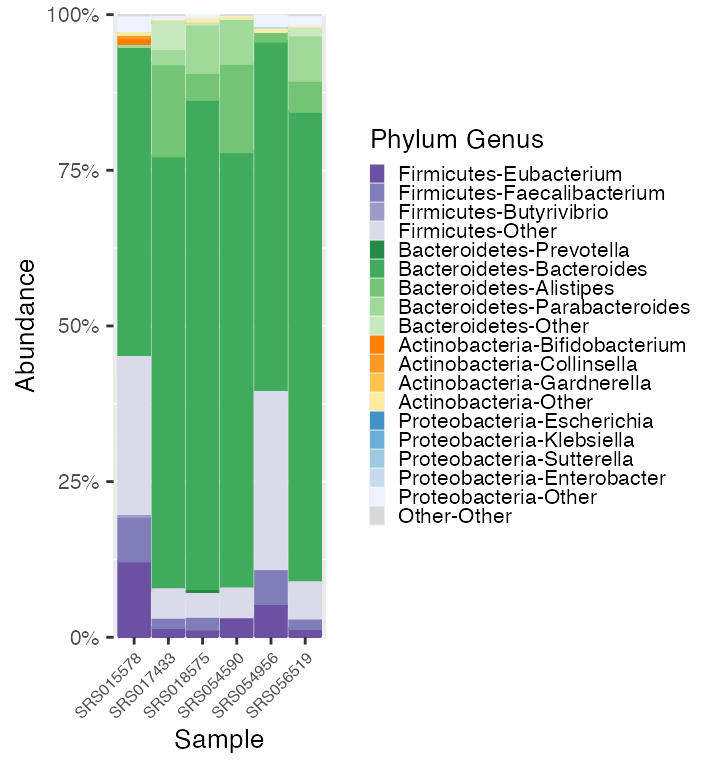
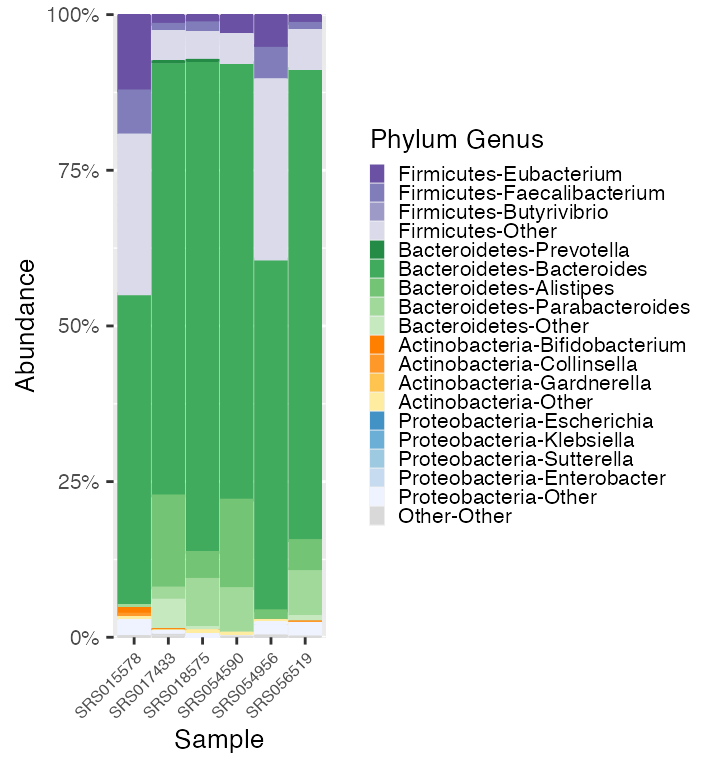
updated functions and added error handling to mdf_prep()

Changed region(s): [[0.1528, 0.0, 0.4583, 0.4062], [0.1528, 0.4375, 0.4583, 0.8438]]

diff --git a/docs/articles/microshades-CMD.html b/docs/articles/microshades-CMD.html
@@ -85,7 +85,7 @@
       <h1 data-toc-skip>microshades-CMD</h1>
                         <h4 class="author">Erin Dahl</h4>
             
-            <h4 class="date">February 19, 2021</h4>
+            <h4 class="date">February 22, 2021</h4>
       
       
       <div class="hidden name"><code>microshades-CMD.Rmd</code></div>
@@ -136,12 +136,13 @@
 <div id="apply-the-microshades-functions-to-the-britol-dataset-" class="section level2">
 <h2 class="hasAnchor">
 <a href="#apply-the-microshades-functions-to-the-britol-dataset-" class="anchor"></a>Apply the microshades functions to the Britol dataset.</h2>
+<p>To orient the shades from the top darkest to lightest instead of from the bottom darkest to lightest, use the <code>top_orientation = TRUE</code> parameter in the <code><a href="../reference/create_color_dfs.html">create_color_dfs()</a></code></p>
 <div class="sourceCode"><pre class="downlit sourceCode r">
 <code class="sourceCode R"><span class="co"># Use microshades function prep_mdf to agglomerate, normalize, and melt the phyloseq object</span>
 <span class="va">mdf_britol_pre</span> <span class="op">&lt;-</span> <span class="fu"><a href="../reference/prep_mdf.html">prep_mdf</a></span><span class="op">(</span><span class="va">ps_britol_sub</span><span class="op">)</span>
 
 <span class="co"># Create a color object for the specified data</span>
-<span class="va">color_objs_britol</span> <span class="op">&lt;-</span> <span class="fu"><a href="../reference/create_color_dfs.html">create_color_dfs</a></span><span class="op">(</span><span class="va">mdf_britol_pre</span><span class="op">)</span>
+<span class="va">color_objs_britol</span> <span class="op">&lt;-</span> <span class="fu"><a href="../reference/create_color_dfs.html">create_color_dfs</a></span><span class="op">(</span><span class="va">mdf_britol_pre</span>, top_orientation <span class="op">=</span> <span class="cn">TRUE</span><span class="op">)</span>
 
 <span class="co"># Extract</span>
 <span class="va">mdf_britol</span><span class="op">&lt;-</span> <span class="va">color_objs_britol</span><span class="op">$</span><span class="va">mdf</span>
@@ -157,7 +158,12 @@
 <span class="va">plot_britol</span> <span class="op">+</span> <span class="fu"><a href="https://ggplot2.tidyverse.org/reference/scale_continuous.html">scale_y_continuous</a></span><span class="op">(</span>labels <span class="op">=</span> <span class="fu">scales</span><span class="fu">::</span><span class="va"><a href="https://scales.r-lib.org//reference/label_percent.html">percent</a></span>, expand <span class="op">=</span> <span class="fu"><a href="https://ggplot2.tidyverse.org/reference/expansion.html">expansion</a></span><span class="op">(</span><span class="fl">0</span><span class="op">)</span><span class="op">)</span> <span class="op">+</span>
   <span class="fu"><a href="https://ggplot2.tidyverse.org/reference/theme.html">theme</a></span><span class="op">(</span>legend.key.size <span class="op">=</span> <span class="fu"><a href="https://rdrr.io/r/grid/unit.html">unit</a></span><span class="op">(</span><span class="fl">0.2</span>, <span class="st">"cm"</span><span class="op">)</span>, text<span class="op">=</span><span class="fu"><a href="https://ggplot2.tidyverse.org/reference/element.html">element_text</a></span><span class="op">(</span>size<span class="op">=</span><span class="fl">10</span><span class="op">)</span><span class="op">)</span> <span class="op">+</span>
   <span class="fu"><a href="https://ggplot2.tidyverse.org/reference/theme.html">theme</a></span><span class="op">(</span>axis.text.x <span class="op">=</span> <span class="fu"><a href="https://ggplot2.tidyverse.org/reference/element.html">element_text</a></span><span class="op">(</span>size<span class="op">=</span> <span class="fl">6</span><span class="op">)</span><span class="op">)</span> </code></pre></div>
-<p><img src="microshades-CMD_files/figure-html/unnamed-chunk-5-1.png" width="576"> ## Reassign colors as desired</p>
+<p><img src="microshades-CMD_files/figure-html/unnamed-chunk-5-1.png" width="576"></p>
+</div>
+</div>
+<div id="reassign-colors-as-desired" class="section level2">
+<h2 class="hasAnchor">
+<a href="#reassign-colors-as-desired" class="anchor"></a>Reassign colors as desired</h2>
 <p>To change the colors assignment, use the function <code>color_reassign</code> to specify the groups and colors in order of reassignment. For example, we can change the color assignment of Bacteroidetes to <code>micro_green</code> and the color assignment of Proteobacteria to <code>micro_blue</code></p>
 <div class="sourceCode"><pre class="downlit sourceCode r">
 <code class="sourceCode R"><span class="va">new_cdf_britol</span> <span class="op">&lt;-</span> <span class="fu"><a href="../reference/color_reassign.html">color_reassign</a></span><span class="op">(</span><span class="va">cdf_britol</span>, 
@@ -170,7 +176,6 @@
   <span class="fu"><a href="https://ggplot2.tidyverse.org/reference/theme.html">theme</a></span><span class="op">(</span>legend.key.size <span class="op">=</span> <span class="fu"><a href="https://rdrr.io/r/grid/unit.html">unit</a></span><span class="op">(</span><span class="fl">0.2</span>, <span class="st">"cm"</span><span class="op">)</span>, text<span class="op">=</span><span class="fu"><a href="https://ggplot2.tidyverse.org/reference/element.html">element_text</a></span><span class="op">(</span>size<span class="op">=</span><span class="fl">10</span><span class="op">)</span><span class="op">)</span> <span class="op">+</span>
   <span class="fu"><a href="https://ggplot2.tidyverse.org/reference/theme.html">theme</a></span><span class="op">(</span>axis.text.x <span class="op">=</span> <span class="fu"><a href="https://ggplot2.tidyverse.org/reference/element.html">element_text</a></span><span class="op">(</span>size<span class="op">=</span> <span class="fl">6</span><span class="op">)</span><span class="op">)</span> </code></pre></div>
 <p><img src="microshades-CMD_files/figure-html/unnamed-chunk-6-1.png" width="700"></p>
-</div>
 </div>
 <div id="apply-the-microshades-functions-to-the-hmp-dataset-" class="section level2">
 <h2 class="hasAnchor">

diff --git a/docs/reference/index.html b/docs/reference/index.html
@@ -137,8 +137,8 @@
     <tbody>
       <tr>
         <th colspan="2">
-          <h2 id="section-all-functions" class="hasAnchor"><a href="#section-all-functions" class="anchor"></a>All functions</h2>
-          <p class="section-desc"></p>
+          <h2 id="section-microshades-palettes" class="hasAnchor"><a href="#section-microshades-palettes" class="anchor"></a>microshades palettes</h2>
+          <p class="section-desc"><p>Access the microshades color palettes</p></p>
         </th>
       </tr>
       
@@ -149,41 +149,9 @@
       <tr>
         
         <td>
-          <p><code><a href="color_reassign.html">color_reassign()</a></code> </p>
+          <p><code><a href="microshades_palettes.html">microshades_palettes</a></code> </p>
         </td>
-        <td><p>Reassign the microshades colors to different groups</p></td>
-      </tr><tr>
-        
-        <td>
-          <p><code><a href="create_color_dfs.html">create_color_dfs()</a></code> </p>
-        </td>
-        <td><p>Generate melted data frame and color palette data frame</p></td>
-      </tr><tr>
-        
-        <td>
-          <p><code><a href="custom_legend.html">custom_legend()</a></code> </p>
-        </td>
-        <td><p>This function creates a custom legend that sections the group taxonomy as headers
-and lists the subgroup taxonomies below each group header, for all the groups.</p></td>
-      </tr><tr>
-        
-        <td>
-          <p><code><a href="default_hex.html">default_hex()</a></code> </p>
-        </td>
-        <td><p>Return default hex colors</p></td>
-      </tr><tr>
-        
-        <td>
-          <p><code><a href="individual_legend.html">individual_legend()</a></code> </p>
-        </td>
-        <td><p>This function creates a custom legend for an individual group taxonomy with the
-subgroup taxonomy below</p></td>
-      </tr><tr>
-        
-        <td>
-          <p><code><a href="match_cdf.html">match_cdf()</a></code> </p>
-        </td>
-        <td><p>Apply the color factoring from one color df to a different melted phyloseq object.</p></td>
+        <td><p>List of palettes</p></td>
       </tr><tr>
         
         <td>
@@ -199,9 +167,34 @@ subgroup taxonomy below</p></td>
       </tr><tr>
         
         <td>
-          <p><code><a href="microshades_palettes.html">microshades_palettes</a></code> </p>
+          <p><code><a href="default_hex.html">default_hex()</a></code> </p>
         </td>
-        <td><p>List of palettes</p></td>
+        <td><p>Return default hex colors</p></td>
+      </tr>
+    </tbody><tbody>
+      <tr>
+        <th colspan="2">
+          <h2 id="section-apply-microshades-to-phyloseq-objects" class="hasAnchor"><a href="#section-apply-microshades-to-phyloseq-objects" class="anchor"></a>Apply microshades to phyloseq objects</h2>
+          <p class="section-desc"><p>Functions for using microshades advanced color organization on phyloseq objects.</p></p>
+        </th>
+      </tr>
+      
+      
+    </tbody><tbody>
+      
+      
+      <tr>
+        
+        <td>
+          <p><code><a href="prep_mdf.html">prep_mdf()</a></code> </p>
+        </td>
+        <td><p>Prepare melted phyloseq object to map colors to</p></td>
+      </tr><tr>
+        
+        <td>
+          <p><code><a href="create_color_dfs.html">create_color_dfs()</a></code> </p>
+        </td>
+        <td><p>Generate melted data frame and color palette data frame</p></td>
       </tr><tr>
         
         <td>
@@ -211,16 +204,36 @@ subgroup taxonomy below</p></td>
       </tr><tr>
         
         <td>
-          <p><code><a href="prep_mdf.html">prep_mdf()</a></code> </p>
-        </td>
-        <td><p>Prepare melted phyloseq object to map colors to</p></td>
-      </tr><tr>
-        
-        <td>
           <p><code><a href="reorder_samples_by.html">reorder_samples_by()</a></code> </p>
         </td>
         <td><p>Reorder the samples by abundance of user selected subgroup taxa and/or
 reorder the groups levels based on abundance with the sink_abundant_groups flag</p></td>
+      </tr><tr>
+        
+        <td>
+          <p><code><a href="match_cdf.html">match_cdf()</a></code> </p>
+        </td>
+        <td><p>Apply the color factoring from one color df to a different melted phyloseq object.</p></td>
+      </tr><tr>
+        
+        <td>
+          <p><code><a href="color_reassign.html">color_reassign()</a></code> </p>
+        </td>
+        <td><p>Reassign the microshades colors to different groups</p></td>
+      </tr><tr>
+        
+        <td>
+          <p><code><a href="custom_legend.html">custom_legend()</a></code> </p>
+        </td>
+        <td><p>This function creates a custom legend that sections the group taxonomy as headers
+and lists the subgroup taxonomies below each group header, for all the groups.</p></td>
+      </tr><tr>
+        
+        <td>
+          <p><code><a href="individual_legend.html">individual_legend()</a></code> </p>
+        </td>
+        <td><p>This function creates a custom legend for an individual group taxonomy with the
+subgroup taxonomy below</p></td>
       </tr>
     </tbody>
     </table>

diff --git a/docs/articles/microshades-GP.html b/docs/articles/microshades-GP.html
@@ -85,7 +85,7 @@
       <h1 data-toc-skip>microshades-GP</h1>
                         <h4 class="author">Erin Dahl</h4>
             
-            <h4 class="date">February 19, 2021</h4>
+            <h4 class="date">February 22, 2021</h4>
       
       
       <div class="hidden name"><code>microshades-GP.Rmd</code></div>
@@ -107,17 +107,8 @@
 <code class="sourceCode R"><span class="kw"><a href="https://rdrr.io/r/base/library.html">library</a></span><span class="op">(</span><span class="va">microshades</span><span class="op">)</span>
 <span class="kw"><a href="https://rdrr.io/r/base/library.html">library</a></span><span class="op">(</span><span class="va"><a href="http://dx.plos.org/10.1371/journal.pone.0061217">phyloseq</a></span><span class="op">)</span>
 <span class="kw"><a href="https://rdrr.io/r/base/library.html">library</a></span><span class="op">(</span><span class="va"><a href="http://ggplot2.tidyverse.org">ggplot2</a></span><span class="op">)</span>
-<span class="kw"><a href="https://rdrr.io/r/base/library.html">library</a></span><span class="op">(</span><span class="va"><a href="https://dplyr.tidyverse.org">dplyr</a></span><span class="op">)</span></code></pre></div>
-<pre><code>## 
-## Attaching package: 'dplyr'</code></pre>
-<pre><code>## The following objects are masked from 'package:stats':
-## 
-##     filter, lag</code></pre>
-<pre><code>## The following objects are masked from 'package:base':
-## 
-##     intersect, setdiff, setequal, union</code></pre>
-<div class="sourceCode"><pre class="downlit sourceCode r">
-<code class="sourceCode R"><span class="kw"><a href="https://rdrr.io/r/base/library.html">library</a></span><span class="op">(</span><span class="va"><a href="https://wilkelab.org/cowplot/">cowplot</a></span><span class="op">)</span></code></pre></div>
+<span class="kw"><a href="https://rdrr.io/r/base/library.html">library</a></span><span class="op">(</span><span class="va"><a href="https://dplyr.tidyverse.org">dplyr</a></span><span class="op">)</span>
+<span class="kw"><a href="https://rdrr.io/r/base/library.html">library</a></span><span class="op">(</span><span class="va"><a href="https://wilkelab.org/cowplot/">cowplot</a></span><span class="op">)</span></code></pre></div>
 </div>
 <div id="use-the-microshades-functions" class="section level2">
 <h2 class="hasAnchor">

diff --git a/docs/articles/microshades-HMP.html b/docs/articles/microshades-HMP.html
@@ -85,7 +85,7 @@
       <h1 data-toc-skip>microshades-HMP</h1>
                         <h4 class="author">Erin Dahl</h4>
             
-            <h4 class="date">February 19, 2021</h4>
+            <h4 class="date">February 22, 2021</h4>
       
       
       <div class="hidden name"><code>microshades-HMP.Rmd</code></div>
@@ -134,10 +134,10 @@
 <span class="va">mdf_prep</span> <span class="op">&lt;-</span> <span class="fu"><a href="../reference/prep_mdf.html">prep_mdf</a></span><span class="op">(</span><span class="va">ps_v1v3_stool</span>, subgroup_level <span class="op">=</span> <span class="st">"FAMILY"</span><span class="op">)</span>
 
 <span class="co"># Create a color object for the specified data</span>
-<span class="va">color_obj_v1v3_stool</span> <span class="op">&lt;-</span> <span class="fu"><a href="../reference/create_color_dfs.html">create_color_dfs</a></span><span class="op">(</span><span class="va">mdf_prep</span>, group_level <span class="op">=</span> <span class="st">"PHYLUM"</span>, subgroup_level <span class="op">=</span> <span class="st">"FAMILY"</span>, cvd <span class="op">=</span> <span class="cn">TRUE</span><span class="op">)</span></code></pre></div>
-<pre><code>## Warning: Unknown or uninitialised column: `Top_Genus`.</code></pre>
-<div class="sourceCode"><pre class="downlit sourceCode r">
-<code class="sourceCode R"><span class="co"># Extract</span>
+<span class="va">color_obj_v1v3_stool</span> <span class="op">&lt;-</span> <span class="fu"><a href="../reference/create_color_dfs.html">create_color_dfs</a></span><span class="op">(</span><span class="va">mdf_prep</span>, group_level <span class="op">=</span> <span class="st">"PHYLUM"</span>, subgroup_level <span class="op">=</span> <span class="st">"FAMILY"</span>, cvd <span class="op">=</span> <span class="cn">TRUE</span><span class="op">)</span>
+
+
+<span class="co"># Extract</span>
 <span class="va">mdf_v1v3_stool</span> <span class="op">&lt;-</span> <span class="va">color_obj_v1v3_stool</span><span class="op">$</span><span class="va">mdf</span>
 <span class="va">cdf_v1v3_stool</span> <span class="op">&lt;-</span> <span class="va">color_obj_v1v3_stool</span><span class="op">$</span><span class="va">cdf</span></code></pre></div>
 </div>

diff --git a/docs/reference/prep_mdf.html b/docs/reference/prep_mdf.html
@@ -166,10 +166,10 @@ and genera.</p>
 </div><div class='output co'>#&gt; <span class='error'>Error: 'data' is not an exported object from 'namespace:phyloseq'</span></div><div class='input'>
 <span class='co'># Use defaults</span>
 <span class='va'>mdf</span> <span class='op'>&lt;-</span> <span class='fu'>prep_mdf</span><span class='op'>(</span><span class='va'>GlobalPatterns</span><span class='op'>)</span>
-</div><div class='output co'>#&gt; <span class='error'>Error in h(simpleError(msg, call)): error in evaluating the argument 'physeq' in selecting a method for function 'taxa_are_rows': object 'GlobalPatterns' not found</span></div><div class='input'>
+</div><div class='output co'>#&gt; <span class='error'>Error in is.data.frame(x): object 'GlobalPatterns' not found</span></div><div class='input'>
 <span class='co'># Subgroup as "Family"</span>
 <span class='va'>mdf_fam</span> <span class='op'>&lt;-</span> <span class='fu'>prep_mdf</span><span class='op'>(</span><span class='va'>GlobalPatterns</span>, subgroup_level <span class='op'>=</span> <span class='st'>"Family"</span><span class='op'>)</span>
-</div><div class='output co'>#&gt; <span class='error'>Error in h(simpleError(msg, call)): error in evaluating the argument 'physeq' in selecting a method for function 'taxa_are_rows': object 'GlobalPatterns' not found</span></div></pre>
+</div><div class='output co'>#&gt; <span class='error'>Error in is.data.frame(x): object 'GlobalPatterns' not found</span></div></pre>
   </div>
   <div class="col-md-3 hidden-xs hidden-sm" id="pkgdown-sidebar">
     <nav id="toc" data-toggle="toc" class="sticky-top">

diff --git a/docs/reference/match_cdf.html b/docs/reference/match_cdf.html
@@ -133,14 +133,7 @@
     <p>Now both melted dataframes will contain the same color mapping information</p>
     </div>
 
-    <pre class="usage"><span class='fu'>match_cdf</span><span class='op'>(</span>
-  <span class='va'>mdf</span>,
-  <span class='va'>mdf_group</span>,
-  selected_groups <span class='op'>=</span> <span class='fu'><a href='https://rdrr.io/r/base/c.html'>c</a></span><span class='op'>(</span><span class='st'>"Proteobacteria"</span>, <span class='st'>"Actinobacteria"</span>, <span class='st'>"Bacteroidetes"</span>,
-    <span class='st'>"Firmicutes"</span><span class='op'>)</span>,
-  group_level <span class='op'>=</span> <span class='st'>"Phylum"</span>,
-  subgroup_level <span class='op'>=</span> <span class='st'>"Genus"</span>
-<span class='op'>)</span></pre>
+    <pre class="usage"><span class='fu'>match_cdf</span><span class='op'>(</span><span class='va'>mdf</span>, <span class='va'>mdf_group</span>, group_level <span class='op'>=</span> <span class='st'>"Phylum"</span>, subgroup_level <span class='op'>=</span> <span class='st'>"Genus"</span><span class='op'>)</span></pre>
 
     <h2 class="hasAnchor" id="arguments"><a class="anchor" href="#arguments"></a>Arguments</h2>
     <table class="ref-arguments">
@@ -152,11 +145,6 @@
     <tr>
       <th>mdf_group</th>
       <td><p>data.frame, melted data frame to use legend from</p></td>
-    </tr>
-    <tr>
-      <th>selected_groups</th>
-      <td><p>list. "Other" is always on the top of the stack,
-but then the rest will follow, with Firmicutes as the base of the stack</p></td>
     </tr>
     <tr>
       <th>group_level</th>

diff --git a/docs/index.html b/docs/index.html
@@ -123,13 +123,7 @@
 <div id="phyloseq-useage" class="section level2">
 <h2 class="hasAnchor">
 <a href="#phyloseq-useage" class="anchor"></a>Phyloseq useage</h2>
-<p>For detailed tutorials on how to use microshades function with phyloseq objects, please reference the following vignettes.</p>
-<ul>
-<li><a href="https://KarstensLab.github.io/Microshades/articles/microshades-GP.html">Global Patterns</a></li>
-<li><a href="https://KarstensLab.github.io/Microshades/articles/microshades-HMP.html">Human Microbiome Project</a></li>
-<li><a href="https://KarstensLab.github.io/Microshades/articles/microshades-HMP2.html">Human Microbiome Project 2</a></li>
-<li><a href="https://KarstensLab.github.io/Microshades/articles/microshades-CMD.html">Curated Metagenomic Data</a></li>
-</ul>
+<p>For detailed tutorials on how to use microshades function with phyloseq objects, please reference vignette articles on the <a href="https://KarstensLab.github.io/microshades">website</a>.</p>
 <p>Here is an example of the plot generated with microshades on Curated Metagenomic Data of the Human Microbiome.</p>
 <p><img src="reference/figures/plot_CMD.png" width="100%" style="display: block; margin: auto;"></p>
 <p>microshades uses coloring to correspond with taxonomic group and subgroup levels. In this example, the phylum and genus information are explored. Darker shades indicate the most abundant genera for each phylum, and lighter shades are less abundant. Users can additionally reorder the samples based on a specified taxonomic rank and name, in this example by genus “Eubacterium” abundance.</p>

diff --git a/docs/reference/create_color_dfs.html b/docs/reference/create_color_dfs.html
@@ -144,7 +144,8 @@ top group, the categories not in <code>selected_groups</code> will be changed to
   top_n_subgroups <span class='op'>=</span> <span class='fl'>4</span>,
   group_level <span class='op'>=</span> <span class='st'>"Phylum"</span>,
   subgroup_level <span class='op'>=</span> <span class='st'>"Genus"</span>,
-  cvd <span class='op'>=</span> <span class='cn'>FALSE</span>
+  cvd <span class='op'>=</span> <span class='cn'>FALSE</span>,
+  top_orientation <span class='op'>=</span> <span class='cn'>FALSE</span>
 <span class='op'>)</span></pre>
 
     <h2 class="hasAnchor" id="arguments"><a class="anchor" href="#arguments"></a>Arguments</h2>
@@ -177,6 +178,11 @@ the max is 4 top subgroups</p></td>
     <tr>
       <th>cvd</th>
       <td><p>logical stands for Color Vision Deficent Friendly palette</p></td>
+    </tr>
+    <tr>
+      <th>top_orientation</th>
+      <td><p>logical most abundant shades oriented at the top of the stack
+otherwise, most abundant shades are bottom oriented</p></td>
     </tr>
     </table>
 

diff --git a/docs/articles/microshades-HMP2.html b/docs/articles/microshades-HMP2.html
@@ -85,7 +85,7 @@
       <h1 data-toc-skip>microshades-HMP2</h1>
                         <h4 class="author">Erin Dahl</h4>
             
-            <h4 class="date">February 19, 2021</h4>
+            <h4 class="date">February 22, 2021</h4>
       
       
       <div class="hidden name"><code>microshades-HMP2.Rmd</code></div>

diff --git a/README.md b/README.md
@@ -52,12 +52,7 @@ microshades_palette("micro_cvd_blue")
 
 ## Phyloseq useage
 
-For detailed tutorials on how to use microshades function with phyloseq objects, please reference the following vignettes.
-
--   [Global Patterns](https://KarstensLab.github.io/Microshades/articles/microshades-GP.html)
--   [Human Microbiome Project](https://KarstensLab.github.io/Microshades/articles/microshades-HMP.html)
--   [Human Microbiome Project 2](https://KarstensLab.github.io/Microshades/articles/microshades-HMP2.html)
--   [Curated Metagenomic Data](https://KarstensLab.github.io/Microshades/articles/microshades-CMD.html)
+For detailed tutorials on how to use microshades function with phyloseq objects, please reference vignette articles on the [website](https://KarstensLab.github.io/microshades).
 
 Here is an example of the plot generated with microshades on Curated Metagenomic Data of the Human Microbiome.
 
